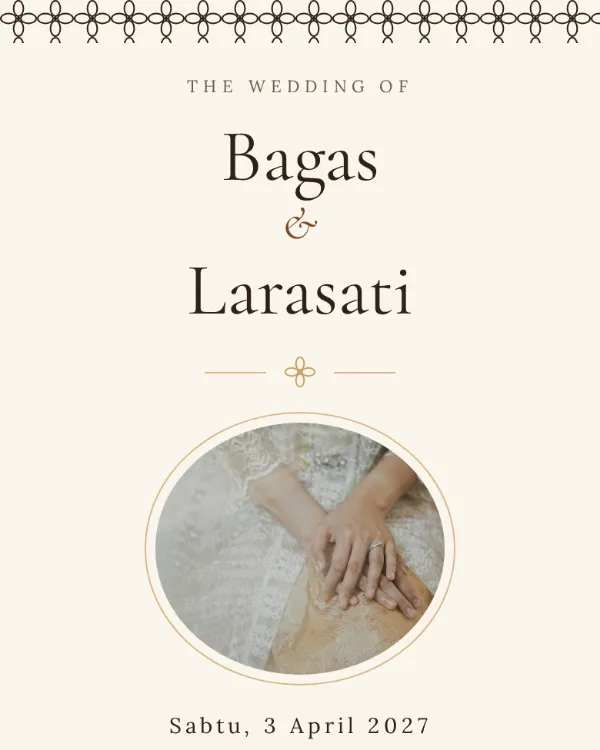
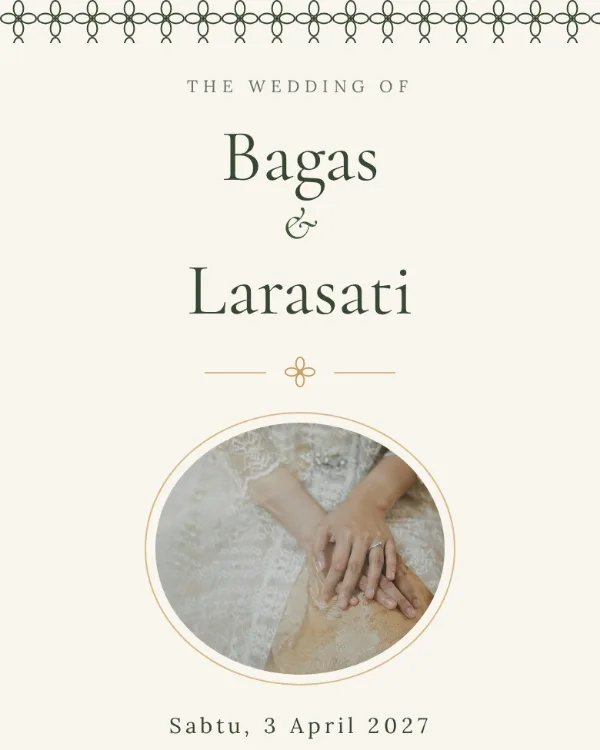
Undangan contoh Romantis memakai Dusty Blue dan Javanese Heritage memakai Hijau Keraton
Supaya tema di bagian Collection beranda tidak sewarna. demo seed menyetel
tema warna kedua undangan contoh, termasuk yang sudah ada saat seed diulang,
dan thumbnail etalase keduanya dibuat ulang.

diff --git a/cmd/server/demo_media.go b/cmd/server/demo_media.go
@@ -123,10 +123,15 @@ func demoMediaSource(themeID string) string {
 	return themeID
 }
 
-// demoSettings: personalisasi undangan contoh (kutipan, T20).
-func demoSettings() view.Settings {
+// demoColorPreset: tema warna undangan contoh yang bukan bawaan (T37), supaya
+// tema di bagian Collection beranda tidak sewarna (ungu, emas, biru, hijau).
+// Thumbnail etalase dibuat dari undangan contoh, jadi ikut warna ini.
+var demoColorPreset = map[string]string{"romantic": "dusty-blue", "jawa": "hijau-keraton"}
+
+// demoSettings: personalisasi undangan contoh (kutipan T20, tema warna T37).
+func demoSettings(themeID string) view.Settings {
 	q := theme.QuoteSamples[0]
-	return view.Settings{QuoteText: q.Text, QuoteSource: q.Source}
+	return view.Settings{QuoteText: q.Text, QuoteSource: q.Source, ColorPreset: demoColorPreset[themeID]}
 }
 
 // ensureDemoMedia melengkapi foto undangan contoh: sampul, placeholder mempelai
@@ -335,14 +340,21 @@ func (a *app) putDemoPhoto(ctx context.Context, weddingID uuid.UUID, folder, fil
 	return a.store.PublicURL(key), nil
 }
 
-// ensureDemoSettings: kutipan contoh untuk demo yang belum punya (demo lama).
+// ensureDemoSettings: kutipan contoh untuk demo yang belum punya (demo lama), dan
+// tema warna sesuai demoColorPreset.
 func ensureDemoSettings(ctx context.Context, themes *theme.Service, id uuid.UUID, themeID string) error {
 	st, err := themes.Settings(ctx, id)
-	if err != nil || st.QuoteText != "" {
+	if err != nil {
 		return err
 	}
-	d := demoSettings()
-	st.QuoteText, st.QuoteSource = d.QuoteText, d.QuoteSource
+	d := demoSettings(themeID)
+	if st.QuoteText != "" && st.ColorPreset == d.ColorPreset {
+		return nil
+	}
+	if st.QuoteText == "" {
+		st.QuoteText, st.QuoteSource = d.QuoteText, d.QuoteSource
+	}
+	st.ColorPreset = d.ColorPreset
 	_, err = themes.Save(ctx, id, themeID, st)
 	return err
 }

diff --git a/cmd/server/demo_test.go b/cmd/server/demo_test.go
@@ -91,7 +91,7 @@ func TestSeedDemo(t *testing.T) {
 	if _, err := a.pool.Exec(ctx, "DELETE FROM gallery_items WHERE wedding_id = (SELECT id FROM weddings WHERE slug = $1)", publicsite.DemoSlug("modern")); err != nil {
 		t.Fatal(err)
 	}
-	if _, err := a.pool.Exec(ctx, "UPDATE wedding_theme_settings SET quote_text = NULL"); err != nil {
+	if _, err := a.pool.Exec(ctx, "UPDATE wedding_theme_settings SET quote_text = NULL, color_preset = NULL"); err != nil {
 		t.Fatal(err)
 	}
 	out.Reset()
@@ -100,6 +100,14 @@ func TestSeedDemo(t *testing.T) {
 	}
 	if strings.Count(out.String(), "dilengkapi:") != 1 {
 		t.Errorf("seed ulang demo lama: %s", out.String())
+	}
+	// Tema warna undangan contoh (T37): dipasang lagi saat seed diulang.
+	for _, d := range theme.All() {
+		w, _ := a.weddings.GetWeddingBySlug(ctx, publicsite.DemoSlug(d.ID))
+		st, _ := themes.Settings(ctx, w.ID)
+		if st.ColorPreset != demoColorPreset[d.ID] || st.QuoteText == "" {
+			t.Errorf("demo %s: tema warna %q, want %q; kutipan %q", d.ID, st.ColorPreset, demoColorPreset[d.ID], st.QuoteText)
+		}
 	}
 	// Tidak dihitung laporan admin.
 	if p, _ := a.weddings.AdminList(ctx, wedding.AdminFilter{}, 25); p.Total != 0 {
@@ -167,6 +175,12 @@ func TestDemoMediaFiles(t *testing.T) {
 		}
 		if !strings.Contains(string(credits), "| "+file+" |") {
 			t.Errorf("belum tercatat di CREDITS.md: %s", file)
+		}
+	}
+	for id, preset := range demoColorPreset {
+		d, ok := theme.Get(id)
+		if _, found := d.Preset(preset); !ok || !found {
+			t.Errorf("demoColorPreset: %s/%s tidak ada", id, preset)
 		}
 	}
 	for _, d := range theme.All() {

diff --git a/cmd/server/demo.go b/cmd/server/demo.go
@@ -128,7 +128,7 @@ func (a *app) seedDemo(ctx context.Context, out io.Writer, refresh bool) error {
 				_, err := a.weddings.UpdateCouple(ctx, w.ID, wedding.CoupleInput{GroomName: c.Groom, BrideName: c.Bride, GroomDescription: c.GroomDesc, BrideDescription: c.BrideDesc})
 				return err
 			},
-			func() error { _, err := themes.Save(ctx, w.ID, d.ID, demoSettings()); return err },
+			func() error { _, err := themes.Save(ctx, w.ID, d.ID, demoSettings(d.ID)); return err },
 			func() error { _, err := a.ensureDemoMedia(ctx, photos, w, d.ID); return err },
 			func() error {
 				day := date.Format("2006-01-02")

diff --git a/CHANGELOG.md b/CHANGELOG.md
@@ -11,6 +11,7 @@
 - Kesembilan template selain Signature kini punya **5 tema warna** yang dirancang untuk karakter masing-masing, misalnya Navy Gold untuk Elegan, Midnight Navy untuk Modern, dan Hitam Songket untuk Minang Heritage. Pilihan pertama adalah warna lama, jadi undangan yang sudah ada tidak berubah.
 - Di menu **Tema**, pilihan warna kini mengikuti tema yang dipilih tanpa memuat ulang halaman. Warna utama dan latar sendiri tetap tersedia dan menimpa tema warna.
 - Halaman detail tema di etalase menampilkan kelima pilihan warna untuk setiap template.
+- Undangan contoh Romantis kini memakai Dusty Blue dan Javanese Heritage memakai Hijau Keraton, supaya tema di bagian Collection beranda tidak sewarna. Di server yang sudah berjalan, jalankan `lovoria demo seed` sekali setelah deploy.
 
 ### Foto contoh tanpa wajah
 - Undangan contoh, etalase tema, dan landing page kini hanya memakai foto tanpa wajah yang bisa dikenali: detail busana, tangan, cincin, bunga, dekorasi, kain batik, dan pasangan dari belakang atau siluet. Undangan pelanggan tidak berubah.
